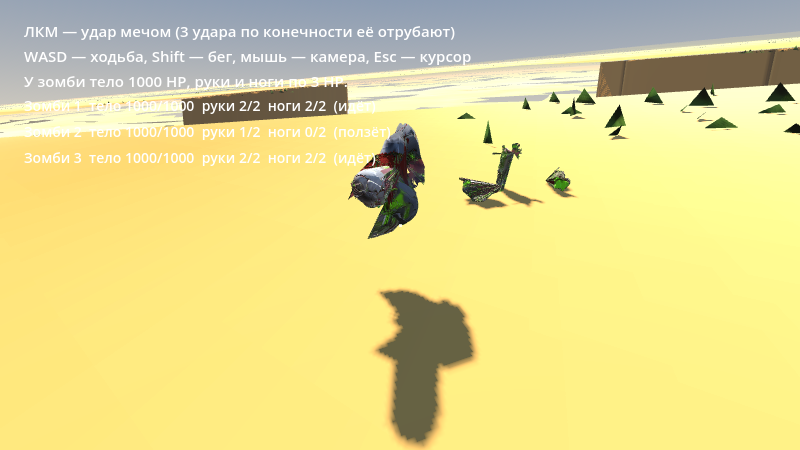
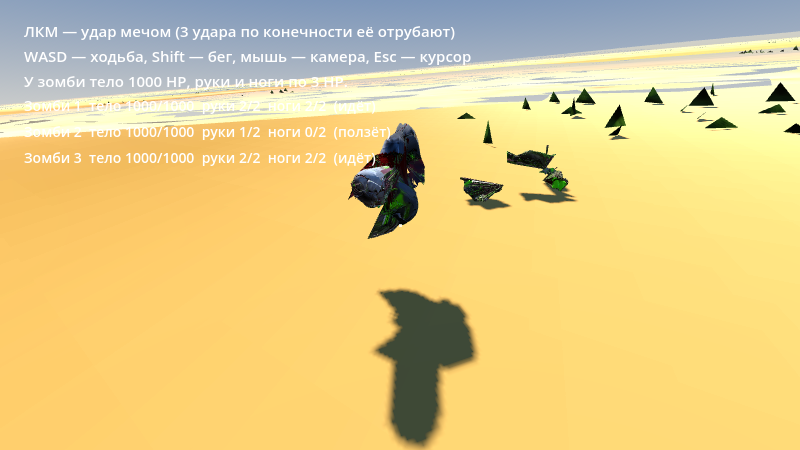
ci: отчёт проверки движком [skip ci]

diff --git a/ci/report.md b/ci/report.md
@@ -90,7 +90,7 @@ PASS  zombie.glb «WalkNoArms»: 22 дорожек, битых 0, длина 1.2
 
 === главная сцена
 остров: материалы (60 поверхностей), вершинные цвета включены
-заплатка земли: 191x191 вершин, шаг 1.00 м
+заплатка земли: 7552 клеток по 1 м (закрывает дыры меша)
 PASS  medic.glb: «MxWalk» двигает кисть на 17.5 см
   бёдра в мировых координатах: (0.022071, 0.483637, -0.006296)
 PASS  zombie.glb: «MxWalk» двигает кисть на 12.9 см
@@ -99,7 +99,8 @@ PASS  игроков: 1
 PASS  зомби: 3
 PASS  остров на сцене: узлов-мешей 60
 PASS  остров: земля на родном атласе 4096px
-PASS  заплатка земли над дырами: треугольников 72200
+PASS  заплатка земли над дырами: треугольников 15104
+PASS  заплатка только по дырам, а не под всей ареной
 PASS  заплатка земли использует атлас острова
 PASS  карта высот загружена в float32 (высота в метрах)
 PASS  высота арены из карты (1405.00) совпадает с arena.json (1405.00)
@@ -123,7 +124,7 @@ PASS  зомби: тело держит удар (осталось 966 HP)
 ERROR: Parameter "m" is null.
    at: mesh_get_surface_count (servers/rendering/dummy/storage/mesh_storage.h:120)
 
-=== итог: 82 проверок, 0 провалов
+=== итог: 83 проверок, 0 провалов
 WARNING: ObjectDB instances leaked at exit (run with --verbose for details).
      at: cleanup (core/object/object.cpp:2284)
 exit=0
@@ -149,7 +150,7 @@ WARNING: All audio drivers failed, falling back to the dummy driver.
      at: initialize (servers/audio_server.cpp:247)
 
 остров: материалы (60 поверхностей), вершинные цвета включены
-заплатка земли: 191x191 вершин, шаг 1.00 м
+заплатка земли: 7552 клеток по 1 м (закрывает дыры меша)
 внешние клипы: +7 из res://models/medic_clips.glb
 внешние клипы: +7 из res://models/zombie_clips.glb
 shot 01_player (800, 450) -> /tmp/shots/01_player.png err=0
